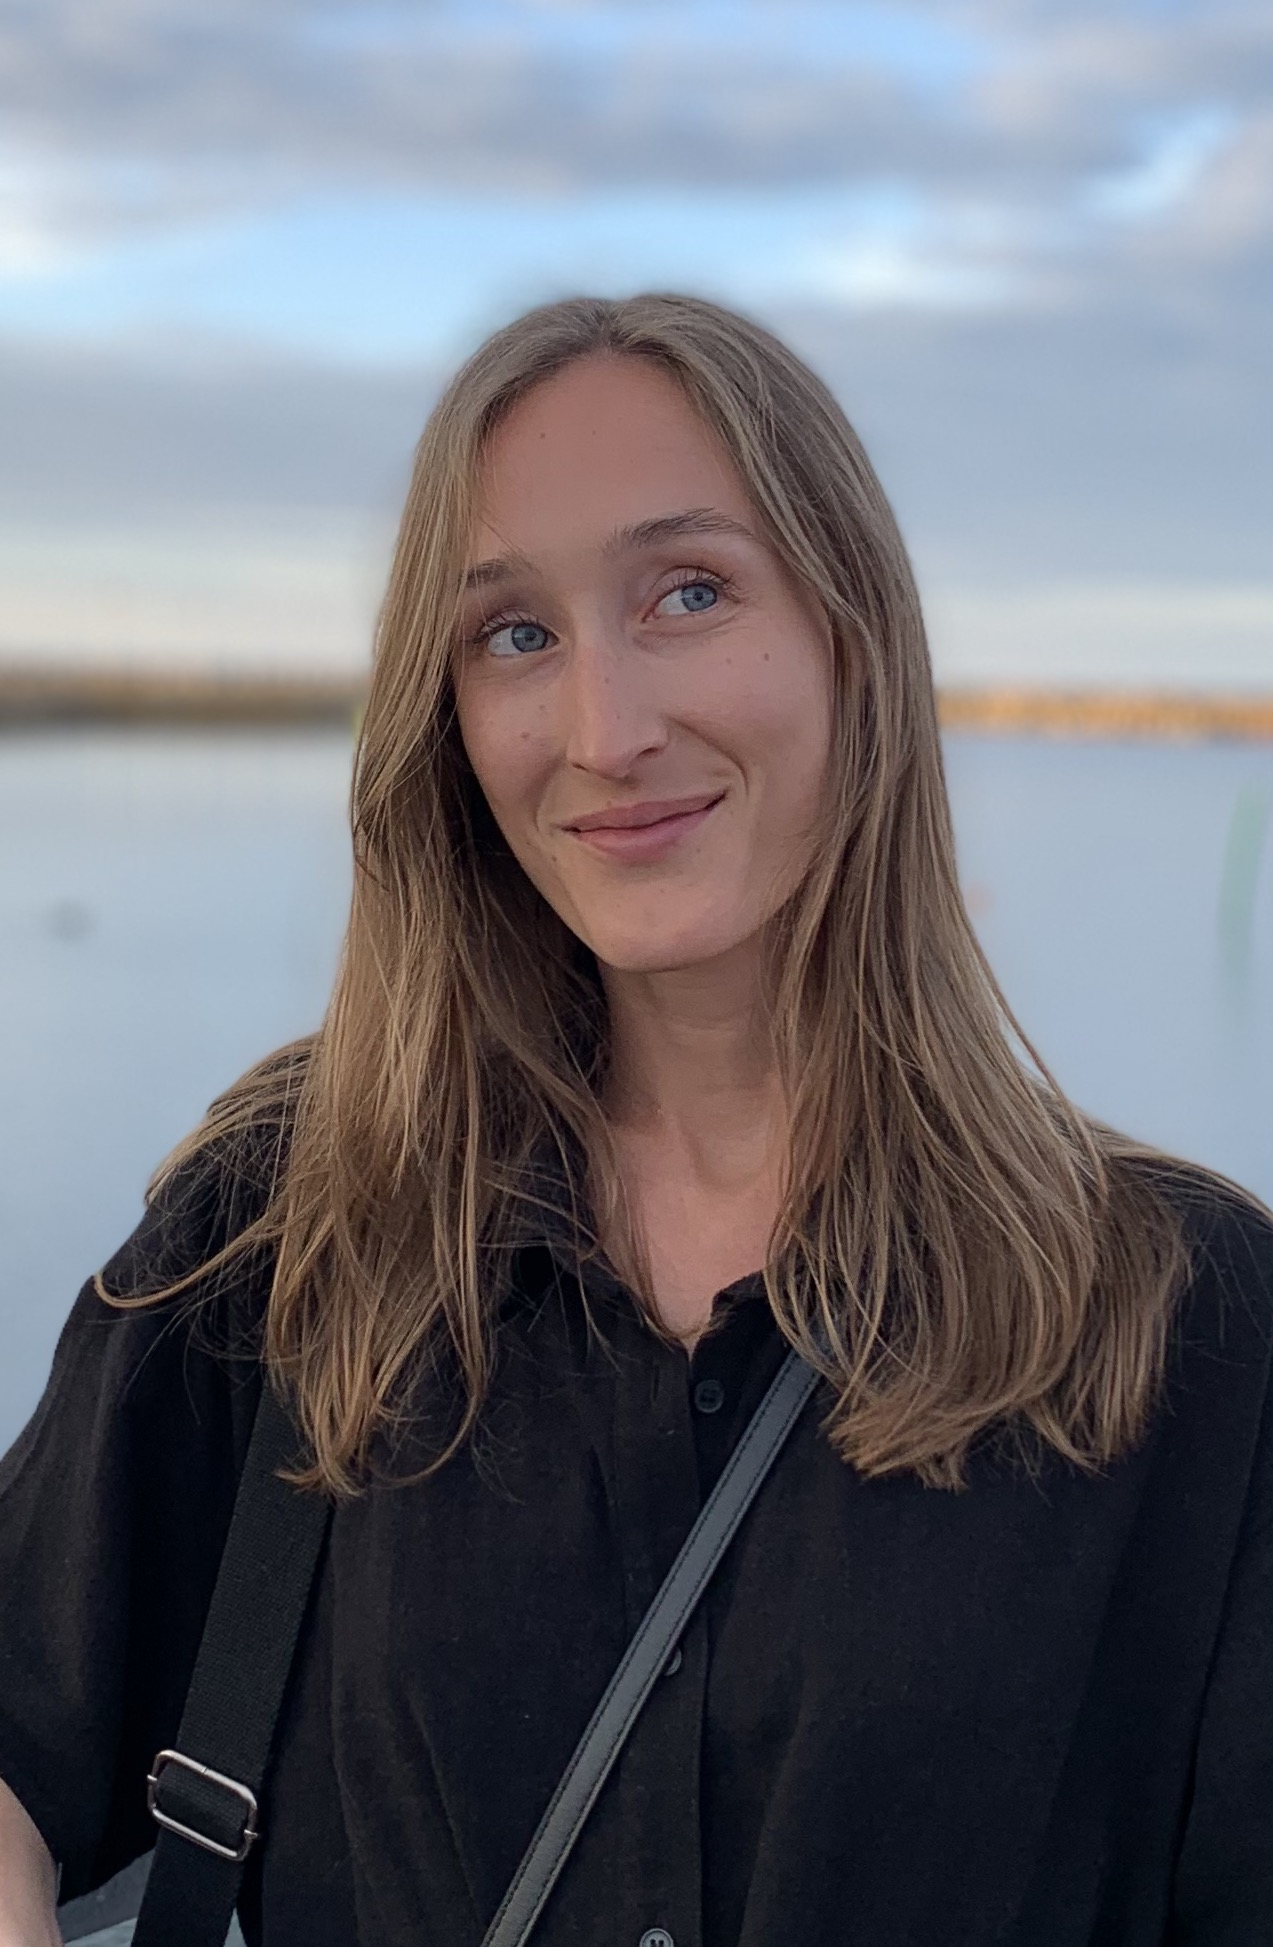
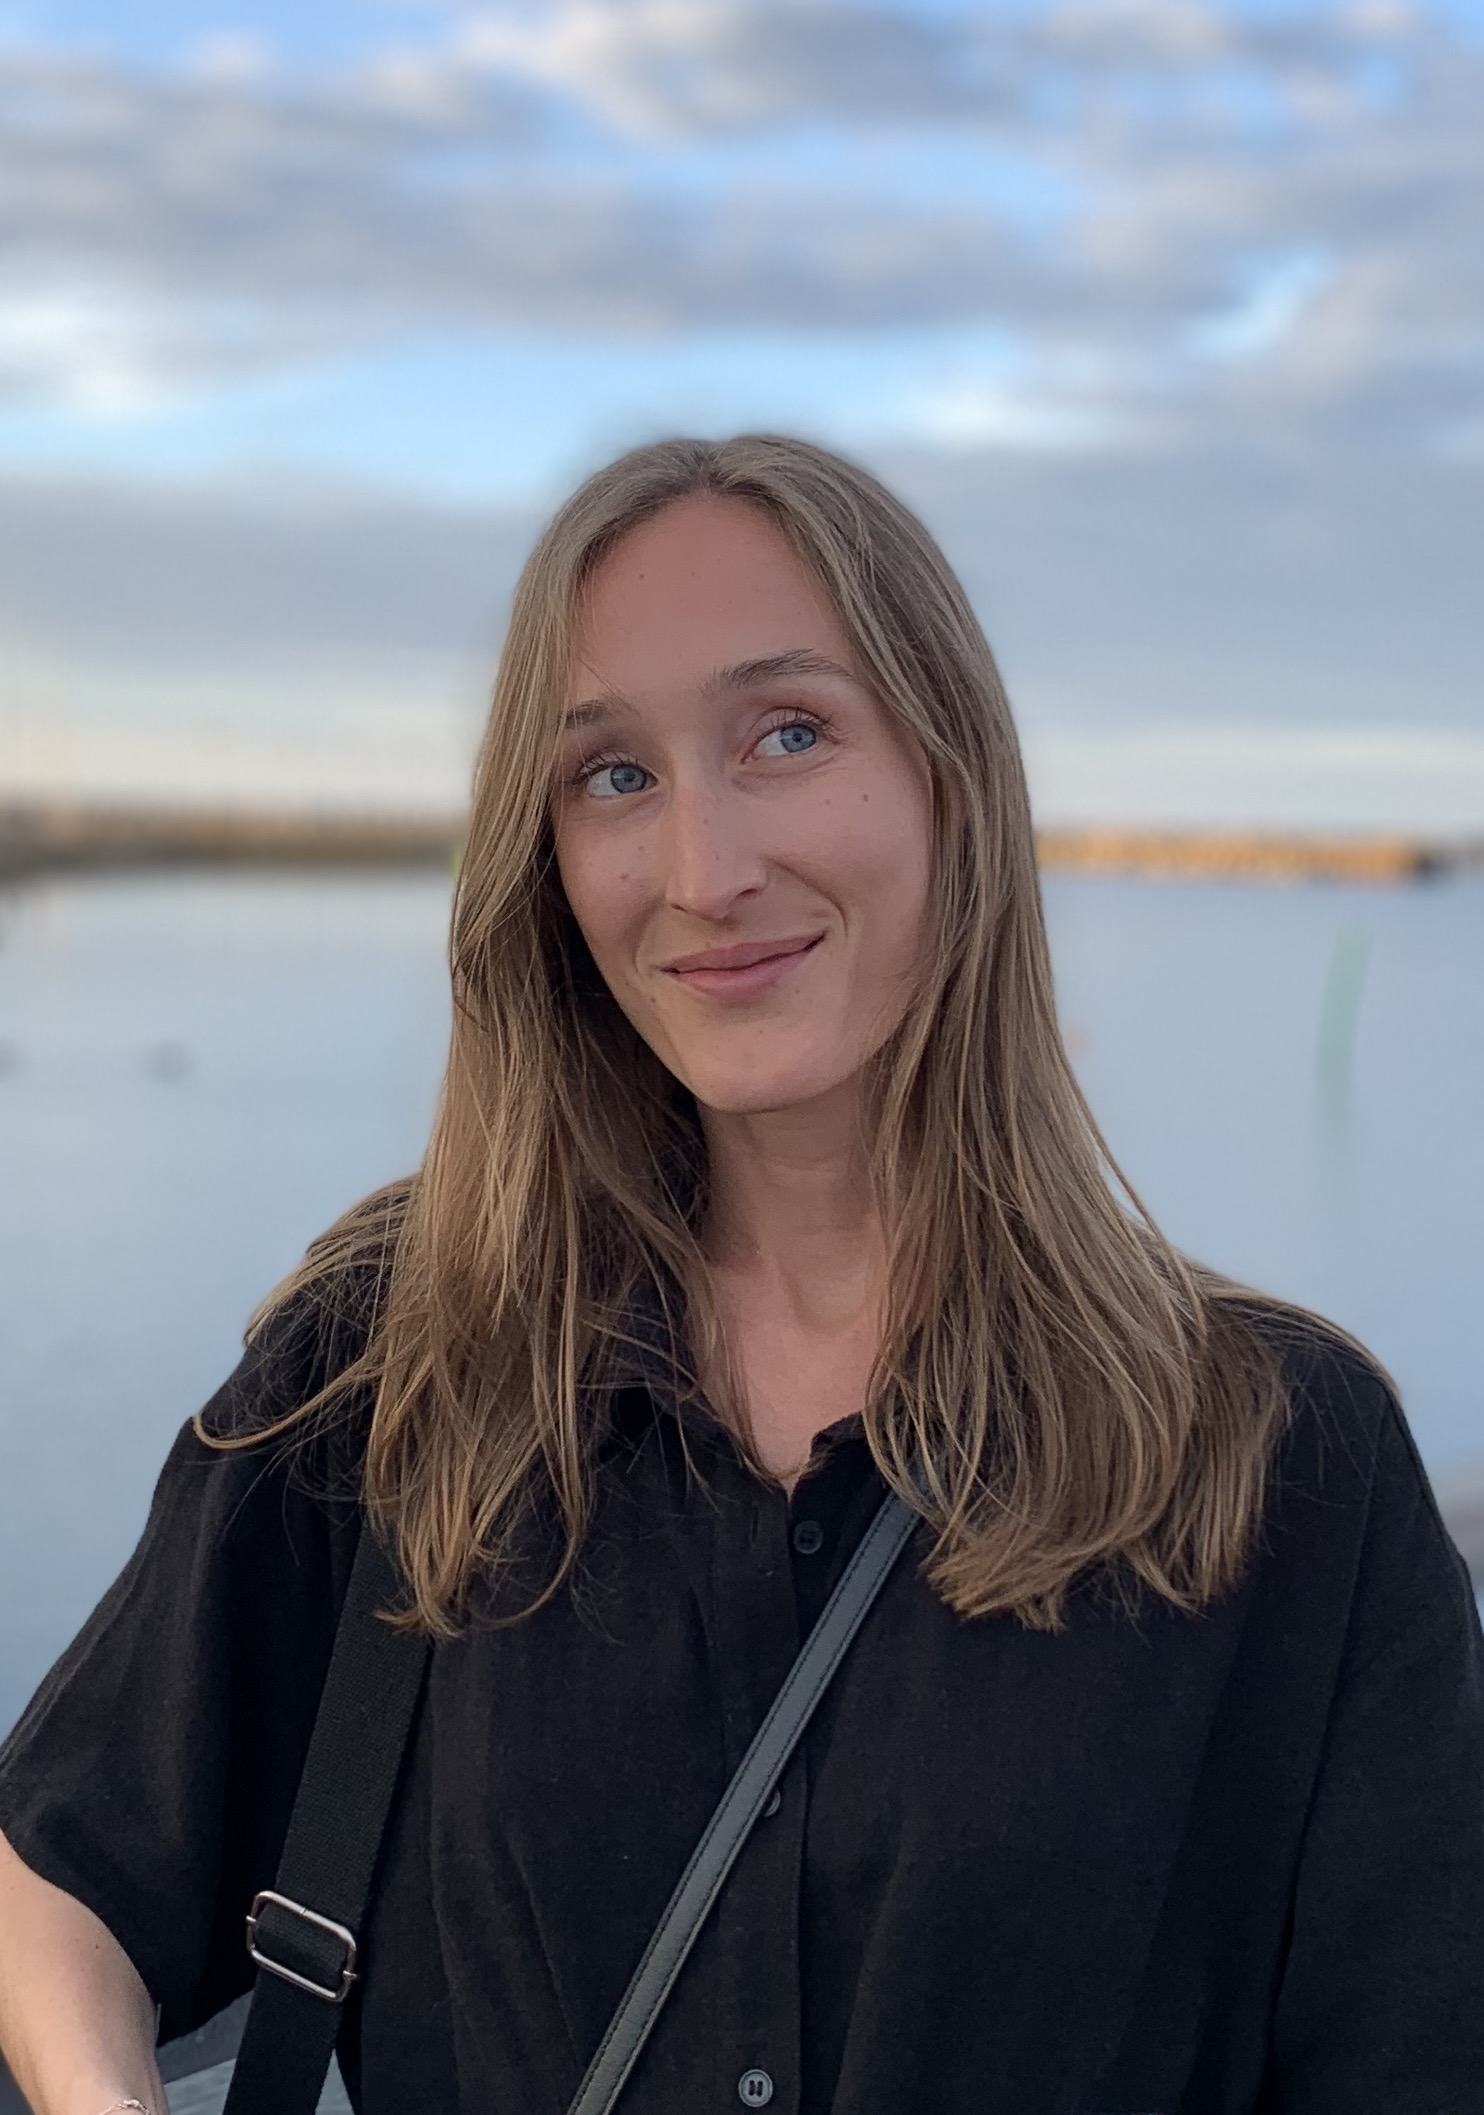
fixed layout in intro

diff --git a/src/components/sections/Intro.css b/src/components/sections/Intro.css
@@ -71,34 +71,43 @@
     display: none;
   }
 
+  /*Desktop layout*/
+  .desktop-middle,
+  .desktop-right {
+    display: block;
+  }
+
   .desktop-parent {
-    display: grid;
-    grid-template-columns: 65% 30% 5%;
+    display: flex;
+    width: 100%; /*Can change to 100vw?*/
+    height: 800px;
   }
 
   .desktop-left {
-    padding-top: 70px;
-    width: 100%;
+    flex: 0 0 60%;
   }
 
   .desktop-middle {
-    display: block;
-    width: 100%;
-  }
-
-  .profilepic-L {
-    height: 700px;
-    width: auto;
+    flex: 0 0 35%;
+    position: relative;
   }
 
   .desktop-right {
-    display: block;
+    flex: 0 0 5%;
     background-color: var(--color-2);
+  }
+
+  .profilepic-L {
     width: 100%;
+    height: 100%;
+    object-fit: cover;
+    position: absolute;
+    top: 0; /* Align to the top of desktop-middle */
+    left: 0; /* Align to the left of desktop-middle */
   }
 
   .intro-text-container {
     text-align: left;
-    margin-right: 200px;
+    margin: 200px 200px 100px 100px;
   }
 }
